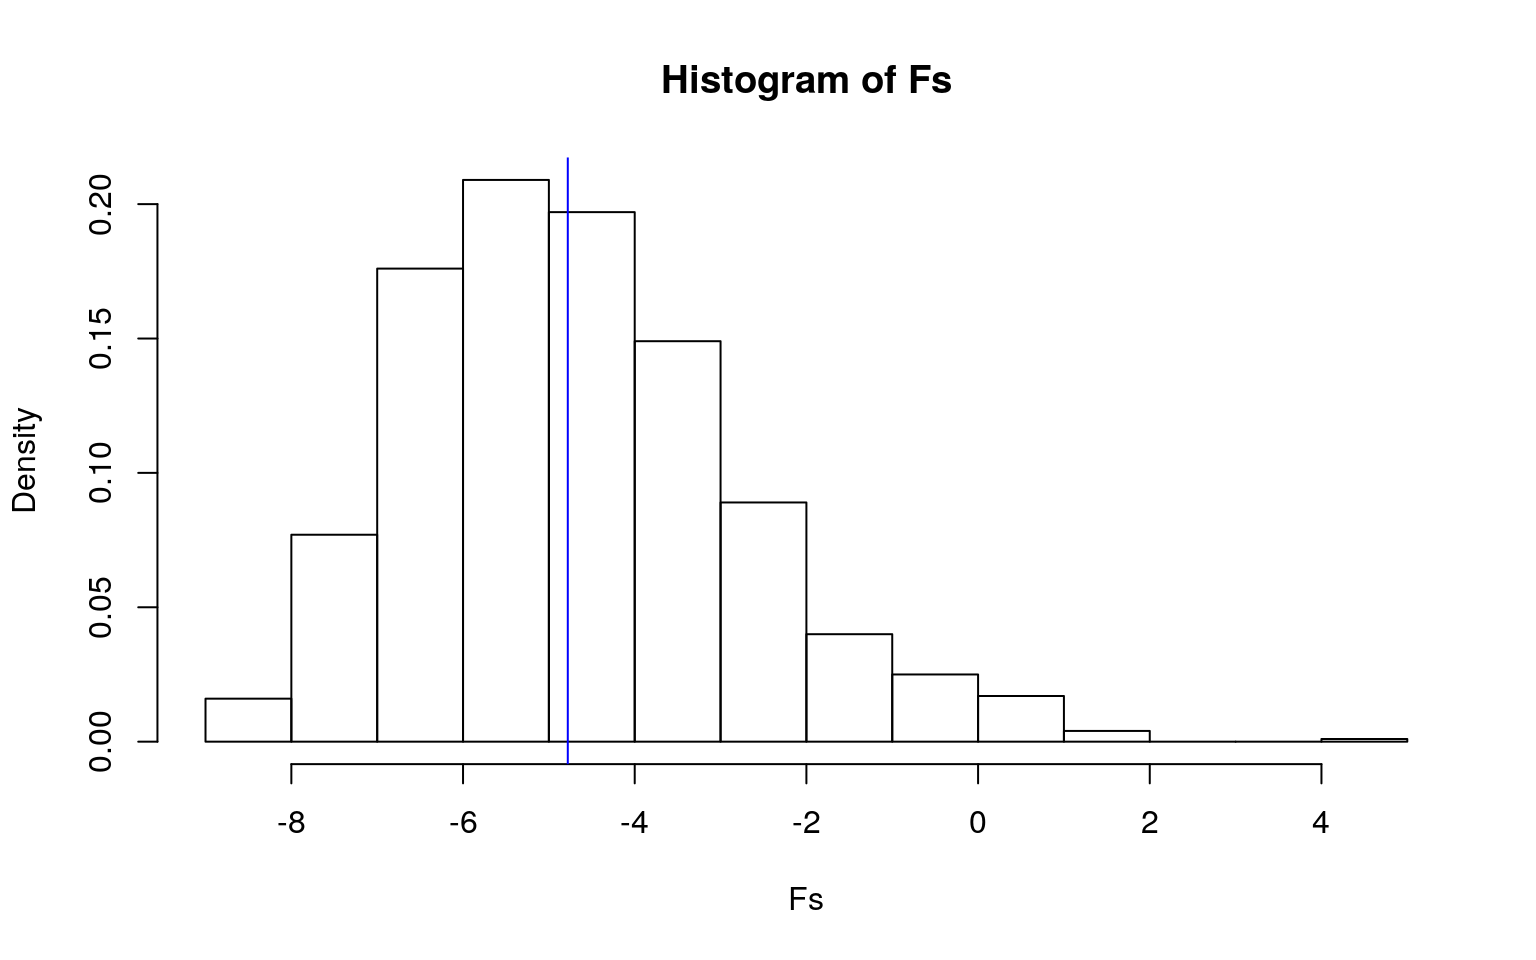
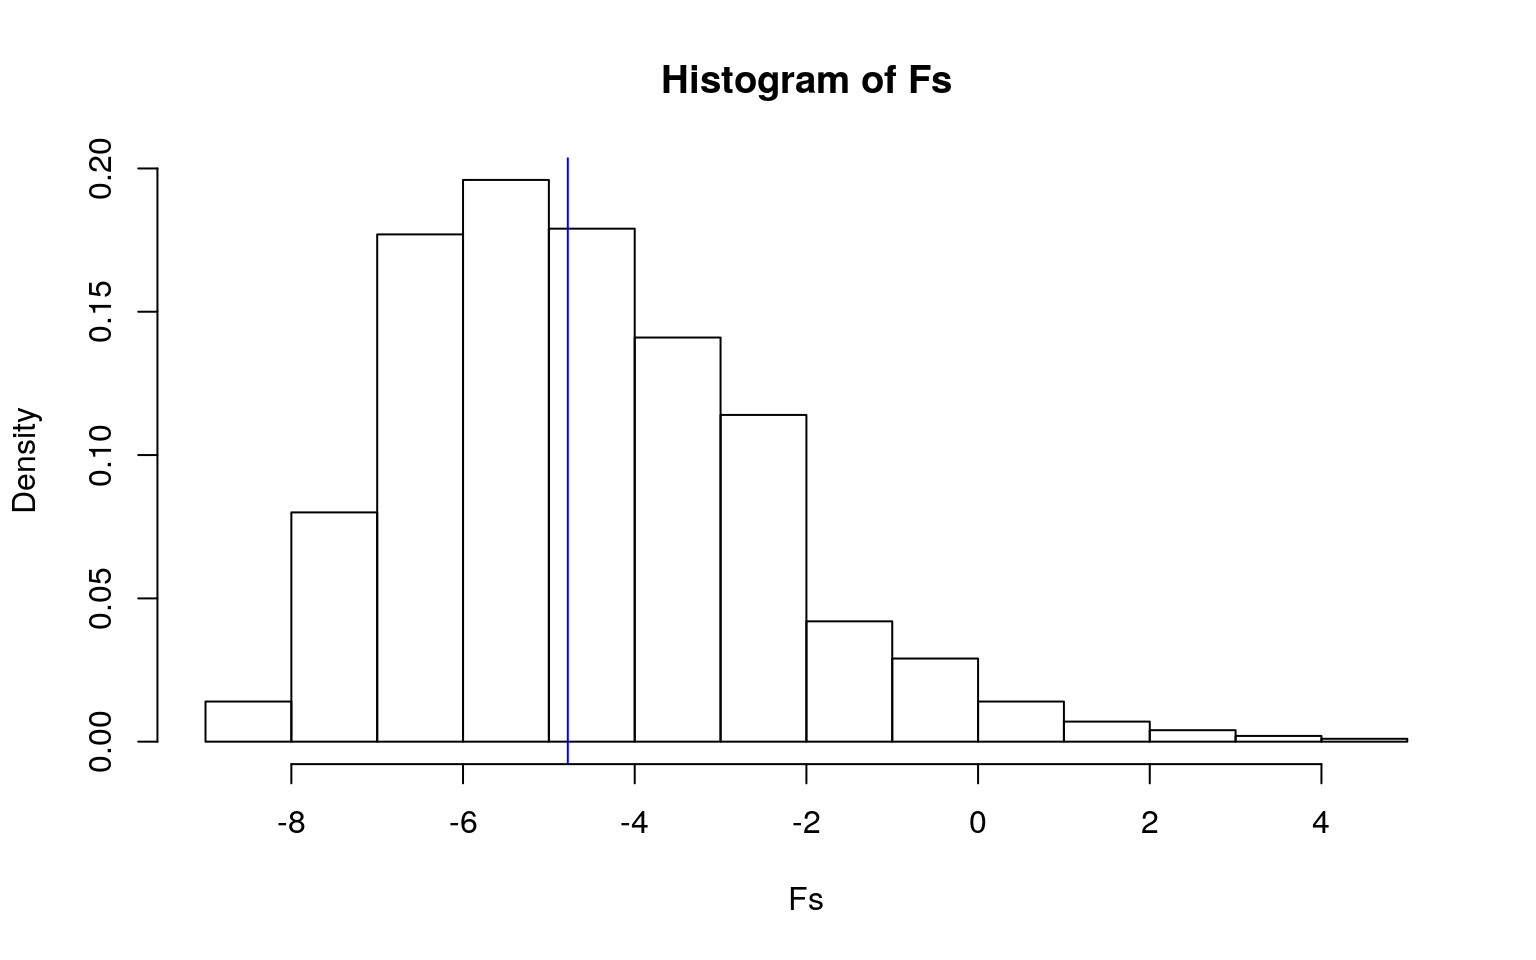
fix resume

diff --git a/project/project1/index.html b/project/project1/index.html
@@ -60,7 +60,7 @@
  
 <div class="blog-title">
           <h4>
-         January 1, 0001 
+         December 3, 2020 
             &nbsp;&nbsp;
             
           </h4>
@@ -533,7 +533,7 @@ final %&gt;% plot_ly(x = ~Psychiatrists, y = ~X2016, z = ~Psychologists,
     color = ~cluster, type = &quot;scatter3d&quot;, mode = &quot;markers&quot;) %&gt;% 
     layout(autosize = F, width = 900, height = 400)</code></pre>
 <p><div id="htmlwidget-1" style="width:672px;height:480px;" class="plotly html-widget"></div>
-<script type="application/json" data-for="htmlwidget-1">{"x":{"visdat":{"136636e31ec7":["function () ","plotlyVisDat"]},"cur_data":"136636e31ec7","attrs":{"136636e31ec7":{"x":{},"y":{},"z":{},"mode":"markers","color":{},"alpha_stroke":1,"sizes":[10,100],"spans":[1,20],"type":"scatter3d"}},"layout":{"width":900,"height":400,"margin":{"b":40,"l":60,"t":25,"r":10},"autosize":false,"scene":{"xaxis":{"title":"Psychiatrists"},"yaxis":{"title":"X2016"},"zaxis":{"title":"Psychologists"}},"hovermode":"closest","showlegend":true},"source":"A","config":{"showSendToCloud":false},"data":[{"x":[1.471,3.84,3.452,3.165,1.197,0.458,1.6,0.224,0.259,5.803,0.492,1.125,0.058,0.207,0.839,0.014,4.031,2.712,0.511,1.321,0.368,0.081,1.649,0.378],"y":[5.6,5.7,2.6,6.1,4.5,7.2,4.4,5.5,9.6,3.8,2.9,3.7,6.9,5.2,3.1,9,4.4,5.8,3.1,3.4,2.4,6.4,2.7,5.4],"z":[1.231,0.788,1.165,12.368,5.029,7.662,0.256,0.56,0.777,8.781,46.147,1.266,0.062,3.459,0.575,0.019,7.331,1.413,3.068,2.034,1.068,0.081,0.765,0.756],"mode":"markers","type":"scatter3d","name":"1","marker":{"color":"rgba(102,194,165,1)","line":{"color":"rgba(102,194,165,1)"}},"textfont":{"color":"rgba(102,194,165,1)"},"error_y":{"color":"rgba(102,194,165,1)"},"error_x":{"color":"rgba(102,194,165,1)"},"line":{"color":"rgba(102,194,165,1)"},"frame":null},{"x":[0.057,7.203,0.039,0.08,11.095,9.056,16.188,0.075,0.292,11.867,4.031,0.371,5.793,5.665,0.06,0.2,11.953,1.265,0.721,0.054,1.637,0.082,10.542,0.201,0.056,0.095],"y":[8.9,7.9,14.8,9.3,11.5,10.1,14.4,12.2,16.5,14.3,13.3,11.5,20.2,8,11,11.8,13.3,23.2,12.9,16.6,7.2,20,13.7,9.8,11.3,19.1],"z":[0.179,1.867,0.022,0.02,4.367,31.061,6.46,0.56,0.069,3.037,0.101,1.443,1.591,1.479,0.387,0.02,9.302,0.542,1.749,0.404,2.537,0.037,29.864,0.409,0.031,0.057],"mode":"markers","type":"scatter3d","name":"2","marker":{"color":"rgba(252,141,98,1)","line":{"color":"rgba(252,141,98,1)"}},"textfont":{"color":"rgba(252,141,98,1)"},"error_y":{"color":"rgba(252,141,98,1)"},"error_x":{"color":"rgba(252,141,98,1)"},"line":{"color":"rgba(252,141,98,1)"},"frame":null},{"x":[3.931],"y":[7.5],"z":[142.018],"mode":"markers","type":"scatter3d","name":"3","marker":{"color":"rgba(141,160,203,1)","line":{"color":"rgba(141,160,203,1)"}},"textfont":{"color":"rgba(141,160,203,1)"},"error_y":{"color":"rgba(141,160,203,1)"},"error_x":{"color":"rgba(141,160,203,1)"},"line":{"color":"rgba(141,160,203,1)"},"frame":null}],"highlight":{"on":"plotly_click","persistent":false,"dynamic":false,"selectize":false,"opacityDim":0.2,"selected":{"opacity":1},"debounce":0},"shinyEvents":["plotly_hover","plotly_click","plotly_selected","plotly_relayout","plotly_brushed","plotly_brushing","plotly_clickannotation","plotly_doubleclick","plotly_deselect","plotly_afterplot","plotly_sunburstclick"],"base_url":"https://plot.ly"},"evals":[],"jsHooks":[]}</script> This clustering graph showcases three numeric variables on the graph. Each datapoint defines 1 of the 51 countries in the dataset. The clusters are defined by the three colors (orange, green, and purple). The most concentrated area is where suicide rates, psychiatrist rates, and psychologist rates are all below 5.0. There are some outliers outside of the concentrated area. One of the countries has a psychiatrist rate of 16.19, suicide rating of 14.4 in 2016, and psychologist rating of 6.46.</p>
+<script type="application/json" data-for="htmlwidget-1">{"x":{"visdat":{"1528832e4fc18":["function () ","plotlyVisDat"]},"cur_data":"1528832e4fc18","attrs":{"1528832e4fc18":{"x":{},"y":{},"z":{},"mode":"markers","color":{},"alpha_stroke":1,"sizes":[10,100],"spans":[1,20],"type":"scatter3d"}},"layout":{"width":900,"height":400,"margin":{"b":40,"l":60,"t":25,"r":10},"autosize":false,"scene":{"xaxis":{"title":"Psychiatrists"},"yaxis":{"title":"X2016"},"zaxis":{"title":"Psychologists"}},"hovermode":"closest","showlegend":true},"source":"A","config":{"showSendToCloud":false},"data":[{"x":[1.471,3.84,3.452,3.165,1.197,0.458,1.6,0.224,0.259,5.803,0.492,1.125,0.058,0.207,0.839,0.014,4.031,2.712,0.511,1.321,0.368,0.081,1.649,0.378],"y":[5.6,5.7,2.6,6.1,4.5,7.2,4.4,5.5,9.6,3.8,2.9,3.7,6.9,5.2,3.1,9,4.4,5.8,3.1,3.4,2.4,6.4,2.7,5.4],"z":[1.231,0.788,1.165,12.368,5.029,7.662,0.256,0.56,0.777,8.781,46.147,1.266,0.062,3.459,0.575,0.019,7.331,1.413,3.068,2.034,1.068,0.081,0.765,0.756],"mode":"markers","type":"scatter3d","name":"1","marker":{"color":"rgba(102,194,165,1)","line":{"color":"rgba(102,194,165,1)"}},"textfont":{"color":"rgba(102,194,165,1)"},"error_y":{"color":"rgba(102,194,165,1)"},"error_x":{"color":"rgba(102,194,165,1)"},"line":{"color":"rgba(102,194,165,1)"},"frame":null},{"x":[0.057,7.203,0.039,0.08,11.095,9.056,16.188,0.075,0.292,11.867,4.031,0.371,5.793,5.665,0.06,0.2,11.953,1.265,0.721,0.054,1.637,0.082,10.542,0.201,0.056,0.095],"y":[8.9,7.9,14.8,9.3,11.5,10.1,14.4,12.2,16.5,14.3,13.3,11.5,20.2,8,11,11.8,13.3,23.2,12.9,16.6,7.2,20,13.7,9.8,11.3,19.1],"z":[0.179,1.867,0.022,0.02,4.367,31.061,6.46,0.56,0.069,3.037,0.101,1.443,1.591,1.479,0.387,0.02,9.302,0.542,1.749,0.404,2.537,0.037,29.864,0.409,0.031,0.057],"mode":"markers","type":"scatter3d","name":"2","marker":{"color":"rgba(252,141,98,1)","line":{"color":"rgba(252,141,98,1)"}},"textfont":{"color":"rgba(252,141,98,1)"},"error_y":{"color":"rgba(252,141,98,1)"},"error_x":{"color":"rgba(252,141,98,1)"},"line":{"color":"rgba(252,141,98,1)"},"frame":null},{"x":[3.931],"y":[7.5],"z":[142.018],"mode":"markers","type":"scatter3d","name":"3","marker":{"color":"rgba(141,160,203,1)","line":{"color":"rgba(141,160,203,1)"}},"textfont":{"color":"rgba(141,160,203,1)"},"error_y":{"color":"rgba(141,160,203,1)"},"error_x":{"color":"rgba(141,160,203,1)"},"line":{"color":"rgba(141,160,203,1)"},"frame":null}],"highlight":{"on":"plotly_click","persistent":false,"dynamic":false,"selectize":false,"opacityDim":0.2,"selected":{"opacity":1},"debounce":0},"shinyEvents":["plotly_hover","plotly_click","plotly_selected","plotly_relayout","plotly_brushed","plotly_brushing","plotly_clickannotation","plotly_doubleclick","plotly_deselect","plotly_afterplot","plotly_sunburstclick"],"base_url":"https://plot.ly"},"evals":[],"jsHooks":[]}</script> This clustering graph showcases three numeric variables on the graph. Each datapoint defines 1 of the 51 countries in the dataset. The clusters are defined by the three colors (orange, green, and purple). The most concentrated area is where suicide rates, psychiatrist rates, and psychologist rates are all below 5.0. There are some outliers outside of the concentrated area. One of the countries has a psychiatrist rate of 16.19, suicide rating of 14.4 in 2016, and psychologist rating of 6.46.</p>
 </div>
 
             

diff --git a/project/project2/index.html b/project/project2/index.html
@@ -60,7 +60,7 @@
  
 <div class="blog-title">
           <h4>
-         January 1, 0001 
+         December 3, 2020 
             &nbsp;&nbsp;
             
           </h4>
@@ -214,7 +214,7 @@ adonis(dists~chestpain,data=heart)</code></pre>
 ## Terms added sequentially (first to last)
 ## 
 ##           Df SumsOfSqs MeanSqs F.Model      R2 Pr(&gt;F)
-## chestpain  3    1170.2  390.08  1.4571 0.07489  0.202
+## chestpain  3    1170.2  390.08  1.4571 0.07489  0.203
 ## Residuals 54   14456.8  267.72         0.92511       
 ## Total     57   15627.0                 1.00000</code></pre>
 <pre class="r"><code>SST&lt;- sum(dists^2)/150
@@ -231,7 +231,7 @@ summarize(sum(d[[1]]^2)/50 + sum(d[[2]]^2)/50+ sum(d[[2]]^2)/50)%&gt;%pull
 {hist(Fs, prob=T);abline(v=F_obs, col=&quot;blue&quot;, add=T)}</code></pre>
 <p><img src="../../project/project2_files/figure-html/unnamed-chunk-3-1.png" width="768" style="display: block; margin: auto;" /></p>
 <pre class="r"><code>mean(Fs&gt;F_obs)</code></pre>
-<pre><code>## [1] 0.471</code></pre>
+<pre><code>## [1] 0.494</code></pre>
 <p>Findings from Question 2: For the randomization test, I chose to compare if the age of the patient correlated with their resting blood pressure. I first computed the actual correlation between the variables. The correlation value was 0.307 which signifies that there is a weak, positive correlation between variables. Generally, as age of the patient increases, their resting blood pressure also increases. I then conducted a randomization test and replicated the sample 1000 times to get as much of the randomization effect as possible. The null hypothesis was that age and resting blood pressure are not correlated and both variables act independently of each other. In contrast, the alternative hypothesis was that age indeed affected the resting blood pressure of the patient. The actual mean difference is 0.486 which is large and means that we cannot reject the null hypothesis. The F_obs value was -4.77 and some of the 1000 F statistics that we generated were larger than the F_obs. Therefore, we cannot reject the null hypothesis and can conclude that age has an insignificant effect on the resting blood pressure. In regard to the relative frequency histogram of Fs, it is skewed to the left with a mean about -5.</p>
 </div>
 <div id="question-3" class="section level1">
@@ -334,35 +334,35 @@ summary(boot)</code></pre>
 <pre><code>## [1] -6.39766e-15</code></pre>
 <pre class="r"><code>sample1 &lt;- sample(boot, replace=T)
 sort(sample1)</code></pre>
-<pre><code>## [1] -166.758621 -136.758621 -120.758621 -103.758621
--85.758621 -74.758621 -74.758621 -72.758621
-## [9] -72.758621 -71.758621 -67.758621 -62.758621
--62.758621 -57.758621 -48.758621 -43.758621
-## [17] -40.758621 -40.758621 -40.758621 -40.758621
--40.758621 -35.758621 -35.758621 -28.758621
-## [25] -28.758621 -18.758621 -14.758621 -14.758621
--10.758621 -4.758621 5.241379 10.241379
-## [33] 29.241379 29.241379 33.241379 37.241379 37.241379
-37.241379 37.241379 37.241379
-## [41] 41.241379 41.241379 41.241379 41.241379 46.241379
-46.241379 46.241379 51.241379
-## [49] 84.241379 84.241379 85.241379 89.241379 94.241379
-107.241379 113.241379 113.241379
-## [57] 132.241379 217.241379</code></pre>
+<pre><code>## [1] -166.758621 -120.758621 -120.758621 -115.758621
+-103.758621 -85.758621 -78.758621 -72.758621
+## [9] -72.758621 -71.758621 -67.758621 -57.758621
+-48.758621 -48.758621 -40.758621 -40.758621
+## [17] -40.758621 -35.758621 -20.758621 -20.758621
+-20.758621 -20.758621 -15.758621 -12.758621
+## [25] -10.758621 -10.758621 -9.758621 -9.758621 -5.758621
+-4.758621 -4.758621 2.241379
+## [33] 10.241379 17.241379 17.241379 23.241379 23.241379
+26.241379 29.241379 33.241379
+## [41] 33.241379 33.241379 35.241379 37.241379 41.241379
+41.241379 51.241379 76.241379
+## [49] 76.241379 76.241379 84.241379 85.241379 89.241379
+132.241379 132.241379 157.241379
+## [57] 217.241379 217.241379</code></pre>
 <pre class="r"><code>mean(sample1)</code></pre>
-<pre><code>## [1] 0.8275862</code></pre>
+<pre><code>## [1] 4.137931</code></pre>
 <pre class="r"><code>means&lt;-vector()
 for(i in 1:5000){ samp&lt;-sample(boot,replace=T) 
 means[i]&lt;-mean(samp)
 } 
 quantile(means,c(0.025,0.975))</code></pre>
 <pre><code>##      2.5%     97.5% 
-## -19.31034  19.05216</code></pre>
+## -19.69052  20.00086</code></pre>
 <pre class="r"><code>ggplot()+geom_histogram(aes(means))+geom_vline(xintercept=quantile(means,c(.025,.975)))</code></pre>
 <p><img src="../../project/project2_files/figure-html/unnamed-chunk-5-1.png" width="768" style="display: block; margin: auto;" /></p>
 <pre class="r"><code>#Bootstrapped SEs
 sd(means)</code></pre>
-<pre><code>## [1] 9.925148</code></pre>
+<pre><code>## [1] 10.12139</code></pre>
 <pre class="r"><code>ggplot()+geom_histogram(aes(means))+ geom_vline(xintercept=mean(means)+c(-1,1)*sd(means))</code></pre>
 <p><img src="../../project/project2_files/figure-html/unnamed-chunk-5-2.png" width="768" style="display: block; margin: auto;" /></p>
 <p>Findings for Question 4: When I reran the regression and bootstrapped, the range of the means decreased. As the mean range increased, the standard deviation value decreased. The standard deviation of the sampling distribution, which is equal to the bootstrapped standard error, is 10.03. This is much greater value than the regular and robust standard errors.</p>

diff --git a/post/2020/12/03/python-blog-post/index.html b/post/2020/12/03/python-blog-post/index.html
@@ -69,20 +69,24 @@
         <div class="panel panel-default">
           <div class="panel-body">
             <div class="blogpost">
-              <p><img src="../../../../../2020-12-03-python-blog-post/index_files/reticulated_python.png" alt=""></p>
-<p>You ever wish you had the best of both worlds? Well now you cam with reticulate! R Studio and Python are both excellent softwares and often concieved as rivals. If you ask anyone in the data science field, they either say they are Team R Studio or Team Python. Why can&rsquo;t they be Team Both? With reticulate, now you can! If those in Team R Studio are unfamilar with Python, Python can pretty much complete the same tasks as R Studio. Here are some comparison in codes that would be inputted in both softwares to complete the the same tasks:</p>
+              <pre><code class="language-{r" data-lang="{r">knitr::opts_chunk$set(echo = TRUE)
+</code></pre><p>You ever wish you had the best of both worlds? Well now you cam with reticulate! R Studio and Python are both excellent softwares and often concieved as rivals. If you ask anyone in the data science field, they either say they are Team R Studio or Team Python. Why can&rsquo;t they be Team Both? With reticulate, now you can! If those in Team R Studio are unfamilar with Python, Python can pretty much complete the same tasks as R Studio. Here are some comparison in codes that would be inputted in both softwares to complete the the same tasks:</p>
 <p>Let&rsquo;s first input the dataset used in Project 2!</p>
-<pre><code class="language-{r" data-lang="{r">knitr::opts_chunk$set(echo = TRUE)
-</code></pre><p>R:</p>
-<pre><code class="language-{R}" data-lang="{R}">df &lt;- read.csv(&quot;heartdata.csv&quot;)
+<p>R:</p>
+<pre><code class="language-{R}" data-lang="{R}">library(reticulate)
+Sys.setenv(RETICULATE_PYTHON=&quot;usr/bin/python&quot;)
+use_python(&quot;usr/bin/python&quot;)
+df &lt;- read.csv(&quot;heartdata.csv&quot;)
 head(df)
-</code></pre><pre><code class="language-{python}" data-lang="{python}">import pandas as pd
+</code></pre><pre><code class="language-{python3}" data-lang="{python3}">py_install(&quot;pandas&quot;)
+import numpy as np
+import pandas as pd
 df = pd.read_csv(&quot;heartdata.csv&quot;)
 df.head()
 </code></pre><p>As you can see, so far, the codes for the same function are similar. Let&rsquo;s find the 5 number summary for the resting blood pressure varibale on each software!</p>
 <p>R:</p>
 <pre><code class="language-{R}" data-lang="{R}">summary(df$restbp)
-</code></pre><pre><code class="language-{python}" data-lang="{python}">df.restbp.mean
+</code></pre><pre><code class="language-{python3}" data-lang="{python3}">df.restbp.mean
 df.restbp.median
 df.restbp.min
 df.restbp.max
@@ -91,10 +95,9 @@ df.restbp.max
 combined together, data scientists can conquer anything!
 Let me show you how to use the function reticulate which allows both softwares to communicate with one another.</p>
 <p>First let&rsquo;s download reticulate and make a fun saying. I will use both softwares to show you that reticulate actually works!</p>
-<pre><code class="language-{R}" data-lang="{R}">install.packages(&quot;reticulate&quot;)
-library(reticulate)
+<pre><code class="language-{R}" data-lang="{R}">library(reticulate)
 austin &lt;- &quot;Happy&quot;
-</code></pre><pre><code class="language-{python}" data-lang="{python}">austin=&quot;Holidays!&quot;
+</code></pre><pre><code class="language-{python3}" data-lang="{python3}">austin=&quot;Holidays!&quot;
 print(r.austin,austin)
 </code></pre><pre><code class="language-{R}" data-lang="{R}">cat(c(austin,py$austin))
 </code></pre><p>There you go! Communication! The softwares even communicate so well that we different words can be named the same thing without any issue!</p>

diff --git a/project/index.html b/project/index.html
@@ -59,7 +59,7 @@
               <div class="row">
                 <div class="col-sm-4 col-md-4 col-lg-4">
                   <h5 style="text-align: right">
-                    January 1, 0001
+                    December 3, 2020
                   </h5>
                  </div>
                  <div class="col-sm-8 col-md-8 col-lg-8">
@@ -72,7 +72,7 @@
               <div class="row">
                 <div class="col-sm-4 col-md-4 col-lg-4">
                   <h5 style="text-align: right">
-                    January 1, 0001
+                    December 3, 2020
                   </h5>
                  </div>
                  <div class="col-sm-8 col-md-8 col-lg-8">
